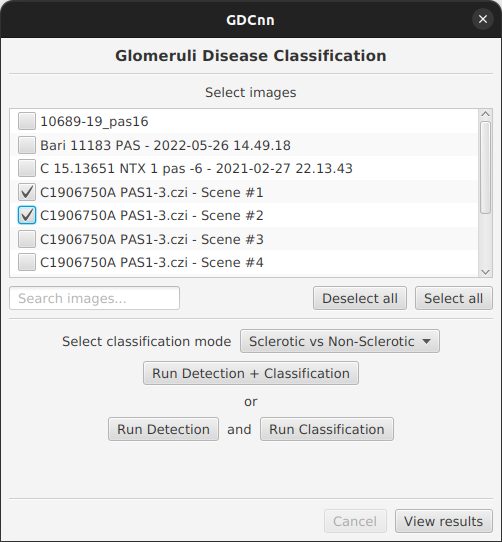
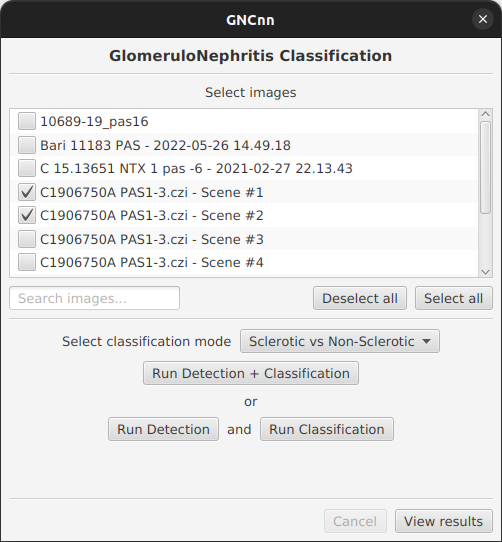
Minor changes to prepare for release v0.1.0

Changed region(s): [[0.2092, 0.0886, 0.7769, 0.1181], [0.0299, 0.3542, 0.0896, 0.4133], [0.4781, 0.0295, 0.508, 0.059]]

diff --git a/install/download_models.py b/install/download_models.py
@@ -10,7 +10,6 @@ ROOT_DIR = os.path.dirname(os.path.dirname(os.path.abspath(__file__)))
 def download_repository(output_dir):
     return snapshot_download(
         repo_id="israelMateos/GNCnn",
-        token="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",
         local_dir=output_dir,
         local_dir_use_symlinks=False,
         force_download=True,

diff --git a/README.md b/README.md
@@ -38,31 +38,25 @@ The extension requires the following dependencies:
 > [!WARNING]
 > This extension **is developed for QuPath 0.5.0 or higher**, and has not been tested with other versions.
 >
-> If having a NVIDIA GPU, the extension only supports CUDA 11.1. CPU is also supported.
+> If you have a NVIDIA GPU, the extension only supports CUDA 11.1. CPU is also supported.
 
 GNCnn was tested on Ubuntu 20.04 and 22.04, Windows 10 and macOS Big Sur 11.4. It requires Python 3.8 or 3.9 (not higher).
 
-**0.** Install Python 3.8 or 3.9 (not higher) on your system.
+**0.** Install Python 3.8 or 3.9 (not higher) on your system, and CUDA 11.1 if you are using a NVIDIA GPU.
 
 <!-- **0.** Install on your system the following dependencies:
 
 - Python 3.8 or 3.9 (not higher)
 - Git LFS (for downloading the model weights) -->
 
-**1.** Download the `.jar` file for the extension from the [Releases](https://github.com/israelMateos/qupath-extension-gncnn/releases/latest) page.
+**1.** Download the latest release from the [Releases](https://github.com/israelMateos/qupath-extension-gncnn/releases/latest) page for the platform you are using.
 
-**2.** This step depends on the platform you are using.
-
-- **Linux**: edit `install/linux.cfg`.
-- **Windows**: edit `install/windows.cfg`.
-- **macOS**: edit `install/mac.cfg`.
-
-In the configuration file, you should set the following variables:
+**2.** Edit `install/config.cfg`. You should set the following variables:
 
 - `qupath_path`: 
   - For Linux, the path to the QuPath installation directory. It should contain the `bin` directory, in which the `QuPath` executable is located.
   - For Windows and macOS, the path to the QuPath executable. In Windows, it should include the console version of QuPath, _e.g._ `QuPath-0.5.1 (console).exe`. In macOS, it should include the executable buried inside the `.app` directory, _e.g._ `QuPath-0.5.1-x64.app/Contents/MacOS/QuPath-0.5.1-x64`.
-- `extension_path`: the path to the `.jar` file downloaded in step 1. It should include the file name.
+- `extension_path`: the path to the `.jar` file included in the release. It should include the file name.
   
 **3.** From the `install` directory, run the following command:
 

diff --git a/install/INSTALL.md b/install/INSTALL.md
@@ -30,25 +30,3 @@ In the configuration file, you should set the following variables:
 - `extension_path`: the path to the `.jar` file downloaded in step 1. It should include the file name.
   
 **3.** From the `install` directory, run the following command:
-
-- **Linux**:
-
-```bash
-bash install.sh
-```
-
-- **Windows**:
-
-```bash
-.\install.bat
-```
-
-- **macOS**:
-
-```bash
-sh install.sh
-```
-
-This script will install the Python tool on which the extension depends, and will download the model weights. It will also create a new directory for the GNCnn extension in the QuPath extensions directory. The next time you open QuPath, the extension will be available in the menu.
-
-**4.** Once the extension is installed, you can remove this repository's directory (`qupath-extension-gncnn`) from your system.
